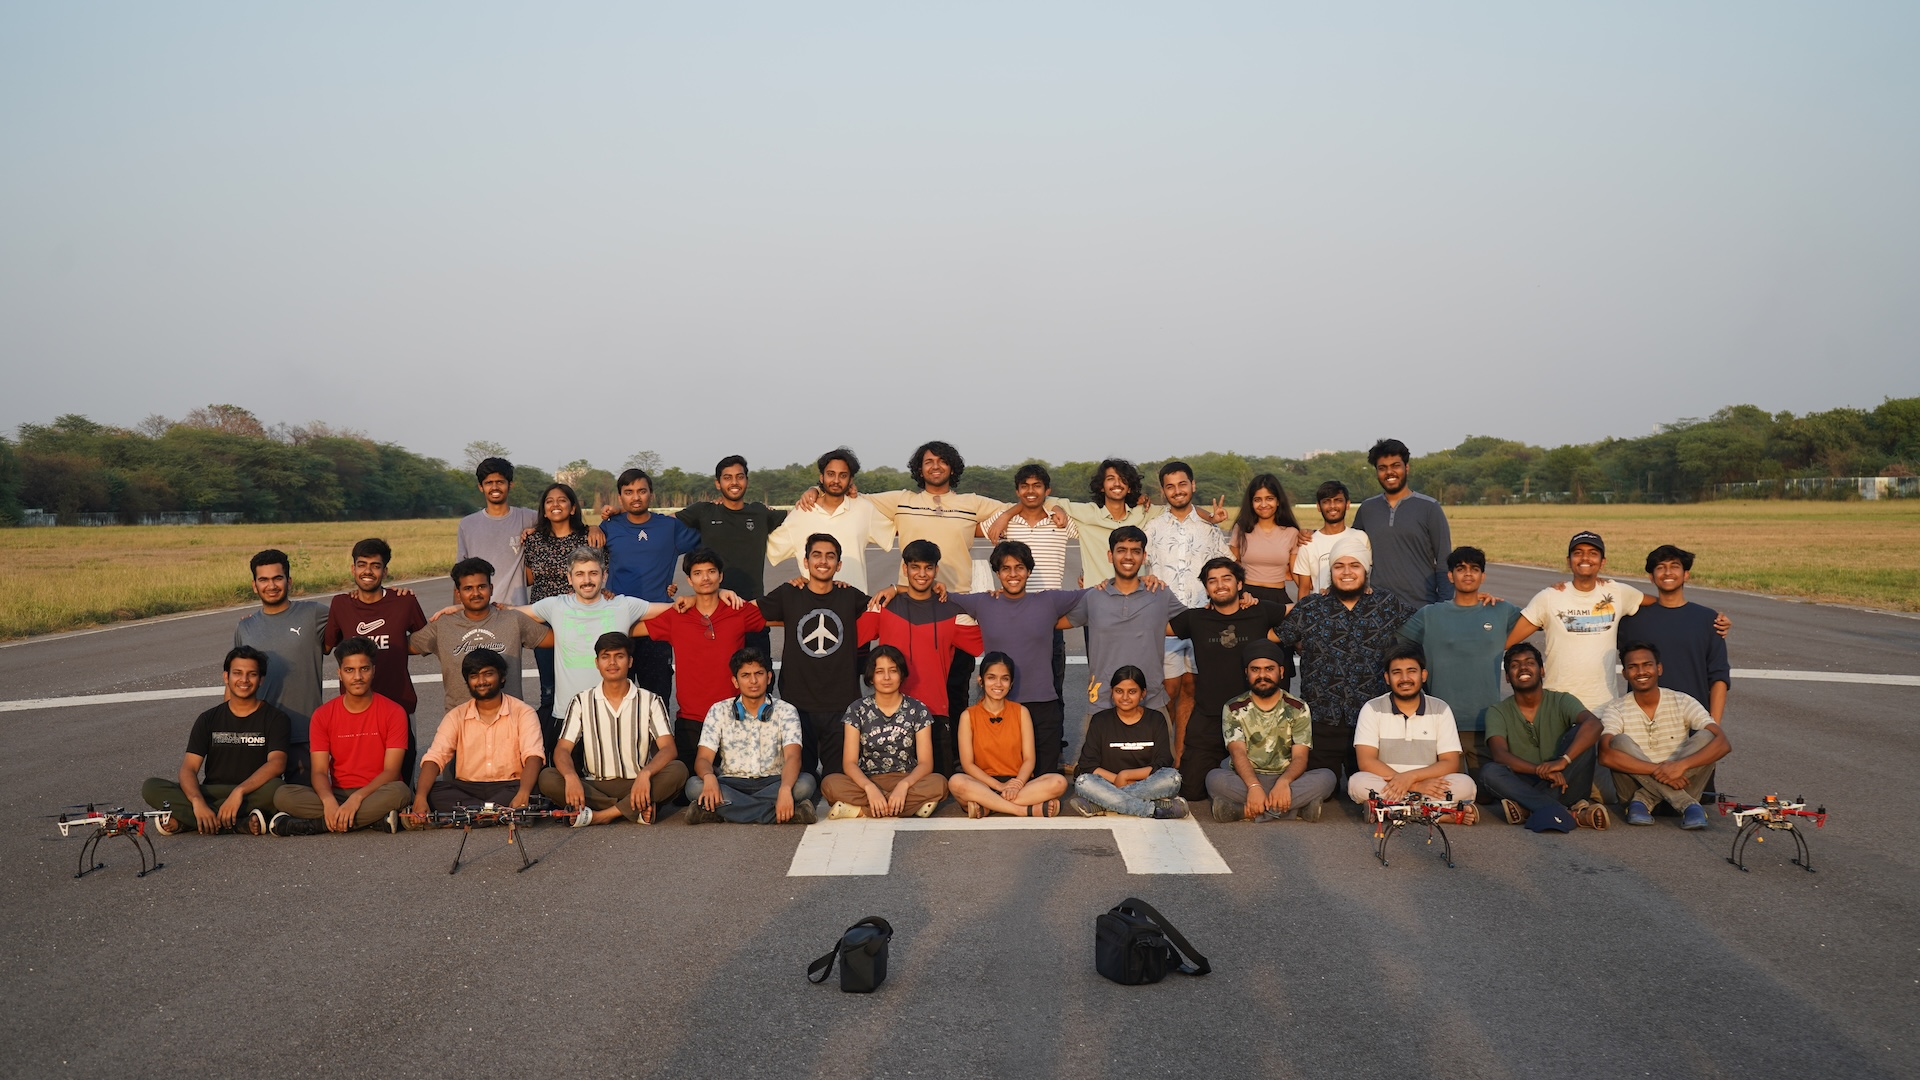
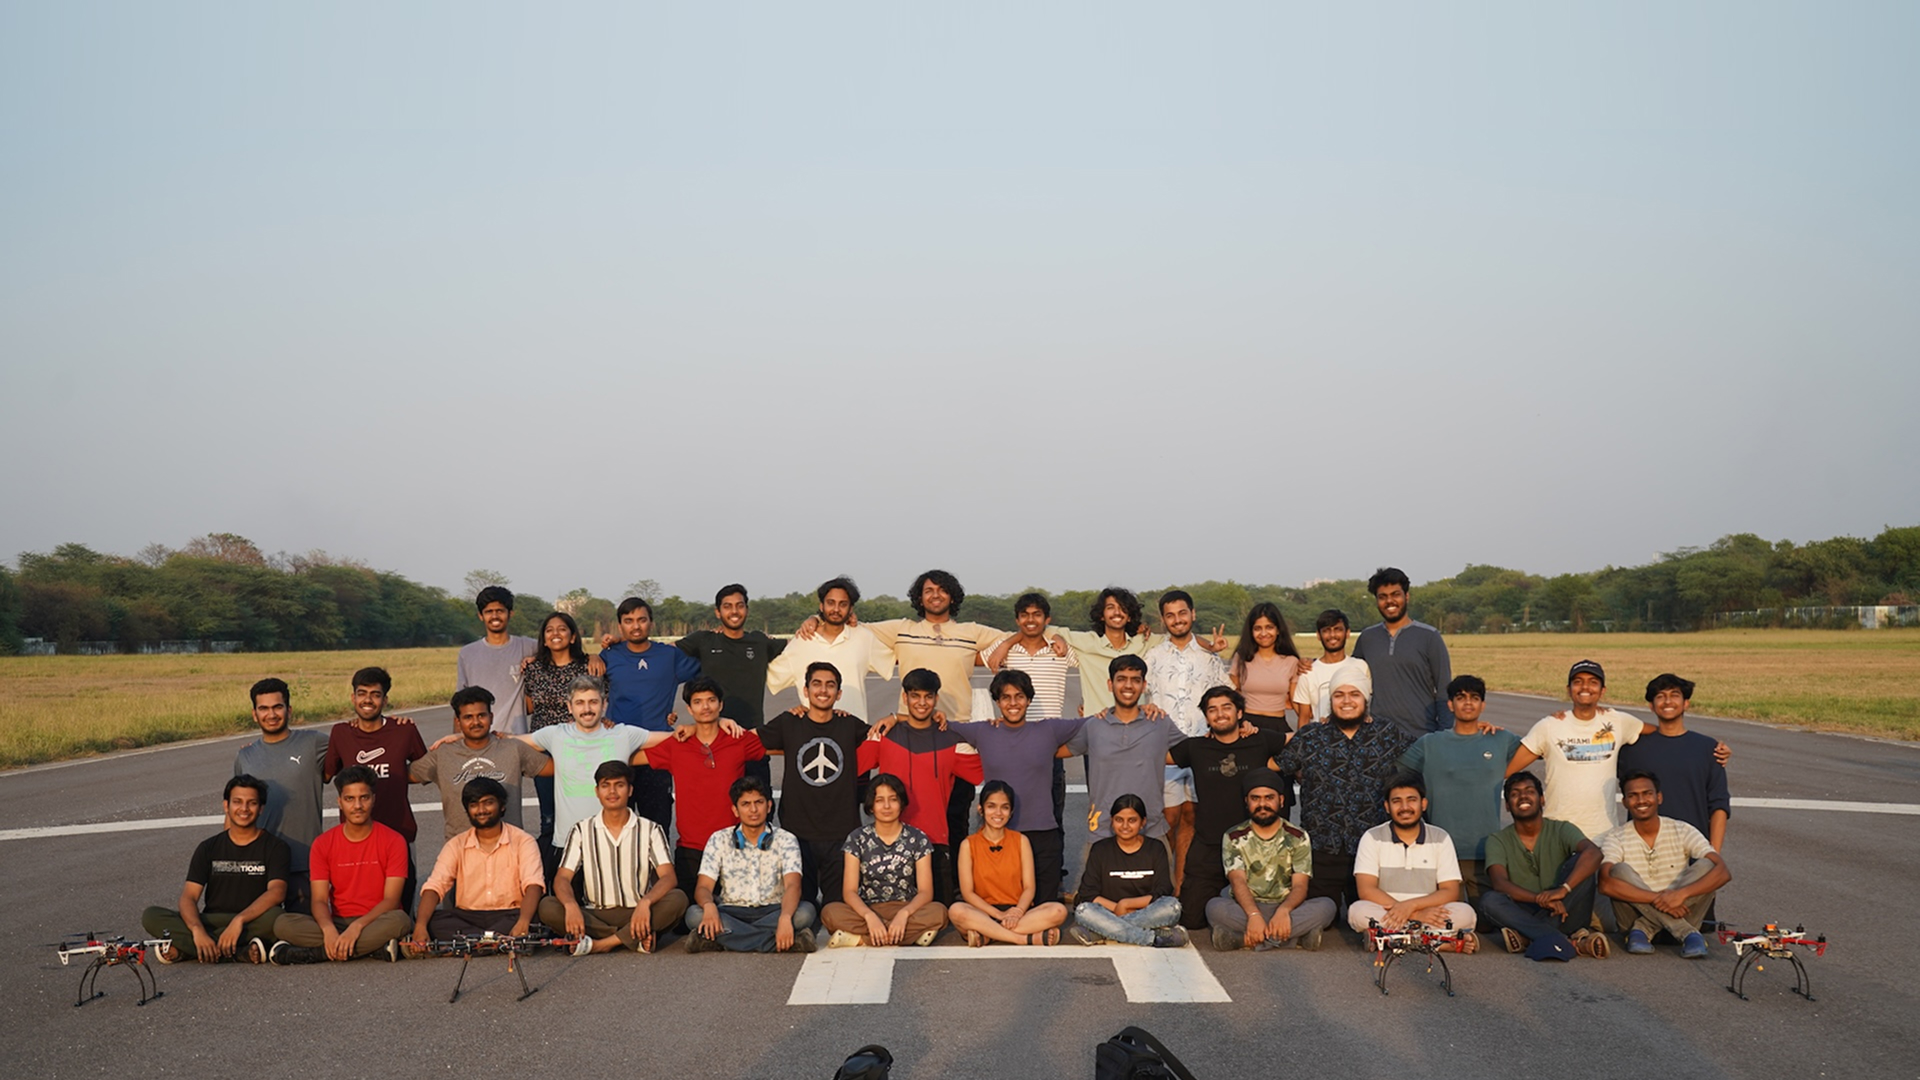
team page parallax scroll

diff --git a/components/Team/ParallaxTeam.tsx b/components/Team/ParallaxTeam.tsx
@@ -1,0 +1,45 @@
+'use client';
+import { motion, useScroll, useTransform } from "framer-motion";
+import React, { useRef } from "react";
+
+export default function ParallaxTeam() {
+  const ref = useRef(null);
+  const { scrollYProgress } = useScroll({
+    target: ref,
+    offset: ["start start", "end start"],
+  });
+  const backgroundY = useTransform(scrollYProgress, [0, 1], ["0%", "100%"]);
+  const textY = useTransform(scrollYProgress, [0, 1], ["-100%", "330%"]);
+
+  return (
+    <div
+      ref={ref}
+      className="w-full h-screen overflow-hidden relative grid place-items-center"
+    >
+      <motion.h1
+        style={{ y: textY }}
+        className="text-center text-9xl font-extrabold text-white relative z-10"
+      >
+        ARIITK 2025/26
+      </motion.h1>
+
+      <motion.div
+        className="absolute inset-0 z-0"
+        style={{
+          backgroundImage: `url('/images/team/current/teamphoto.jpg')`,
+          backgroundPosition: "bottom",
+          backgroundSize: "cover",
+          y: backgroundY,
+        }}
+      />
+      <div
+        className="absolute inset-0 z-20"
+        style={{
+          backgroundImage: `url('/images/team/current/team-bottom.png')`,
+          backgroundPosition: "bottom",
+          backgroundSize: "cover",
+        }}
+      />
+    </div>
+  );
+}

diff --git a/components/Team/index.tsx b/components/Team/index.tsx
@@ -1,5 +1,7 @@
 import Image from "next/image";
 import React from "react";
+import ParallaxTeam from "./ParallaxTeam";
+
 const teamMembersY23=[
   {
     name: "Ayush Goyal",
@@ -254,21 +256,11 @@ const TeamCard = ({ member }) => {
 
 const Team = () => {
   return (
+    <main>
+    <ParallaxTeam />
     <div>
-      {/* current team banner */}
-      <div className="relative h-screen w-full">
-        <img
-          src="/images/team/current/teamphoto.jpg"
-          alt="Team Banner"
-          className="h-full w-full object-cover"
-        />
-        <div className="absolute top-[20%] left-0 w-full bg-black/50 py-6">
-          <h1 className="text-center text-5xl font-extrabold text-white">Meet the Team</h1>
-        </div>
-      </div>
-
       {/*y23s*/}
-      <div className="flex items-center my-12 mt-64">
+      <div className="flex items-center my-12 mt-40">
         <div className="flex-grow border-t border-gray-300 dark:border-gray-600"></div>
         <span className="mx-4 text-6xl font-semibold text-gray-800 dark:text-gray-200">Y23s</span>
         <div className="flex-grow border-t border-gray-300 dark:border-gray-600"></div>
@@ -396,6 +388,7 @@ const Team = () => {
         </div>
       </div>
     </div>
+    </main>
   );
 };
 
